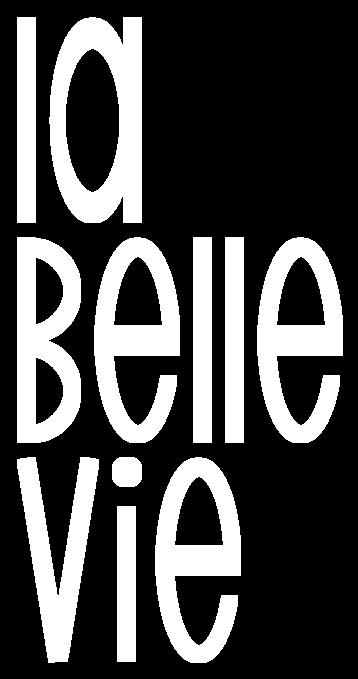
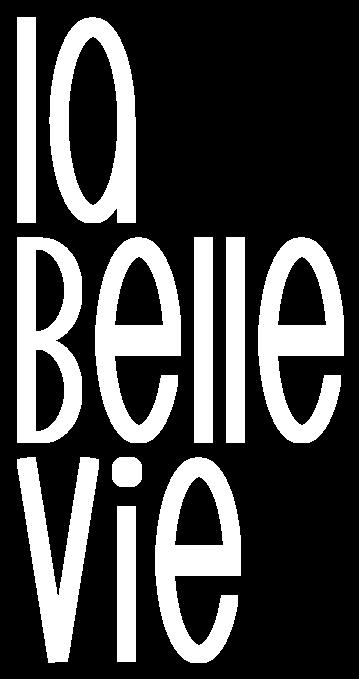
regler les tests

diff --git a/src/tp1/BaseShape.java b/src/tp1/BaseShape.java
@@ -1,17 +1,16 @@
 package tp1;
 
 import java.util.*;
-import java.util.stream.Collectors;
 
 public class BaseShape implements Cloneable {
-    private Collection<Point2d> coords;
+    private final Collection<Point2d> coords;
 
     public BaseShape() {
-        this.coords = new LinkedList<Point2d>();
+        this.coords = new LinkedList<>();
     }
 
     public BaseShape(Collection<Point2d> coords) {
-        this.coords = new ArrayList<Point2d>();
+        this.coords = new ArrayList<>();
         this.addAll(coords);
     }
 
@@ -41,11 +40,15 @@ public class BaseShape implements Cloneable {
     }
 
     public Collection<Point2d> getCoords() {
-        return this.coords;
+        return new ArrayList<>(this.coords);
     }
 
     public Collection<Point2d> getCoordsDeepCopy() {
-        return this.clone().coords;
+        Collection<Point2d> newCoords = new LinkedList<>();
+        for (Point2d elem :this.coords) {
+            newCoords.add(elem.clone());
+        }
+        return newCoords;
     }
 
     public BaseShape translate(Point2d point) {
@@ -57,7 +60,7 @@ public class BaseShape implements Cloneable {
 
     public BaseShape rotate(Double angle) {
         for(Point2d pt2d: this.coords) {
-            PointOperator.rotate(pt2d.vector, angle);
+            pt2d.rotate(angle);
         }
         return this;
     }
@@ -123,6 +126,6 @@ public class BaseShape implements Cloneable {
     }
 
     public BaseShape clone() {
-        return this.clone();
+        return new BaseShape(this.getCoordsDeepCopy());
     }
 }

diff --git a/src/tp1/PointOperator.java b/src/tp1/PointOperator.java
@@ -1,7 +1,5 @@
 package tp1;
 
-import java.util.*;
-
 public final class PointOperator {
 
     public static void translate(Double[] vector, Double[] translateVector) {
@@ -26,20 +24,20 @@ public final class PointOperator {
     }
 
     public static void divide(Double[] vector, Double divider) {
-        for (double vec: vector) {
-            vec /= divider;
+        for (int i = 0; i < vector.length; ++i) {
+            vector[i] /= divider;
         }
     }
 
     public static void multiply(Double[] vector, Double multiplier) {
-        for (double vec: vector) {
-            vec *= multiplier;
+        for (int i = 0; i < vector.length; ++i) {
+            vector[i] *= multiplier;
         }
     }
 
     public static void add(Double[] vector, Double adder) {
-        for (double vec: vector) {
-            vec += adder;
+        for (int i = 0; i < vector.length; ++i) {
+            vector[i] += adder;
         }
     }
 }

diff --git a/src/tp1/LetterFactory.java b/src/tp1/LetterFactory.java
@@ -1,7 +1,5 @@
 package tp1;
 
-import org.w3c.dom.css.Rect;
-
 public final class LetterFactory {
     final static Double maxHeight = 200.0;
     final static Double maxWidth = maxHeight / 2.5;
@@ -46,8 +44,8 @@ public final class LetterFactory {
     }
 
     public static BaseShape create_V() {
-        Rectangle barreDroite = new Rectangle(halfStripeThickness , maxHeight).rotate(angleDuV).translate(new Point2d(-deplacementDuV,0.0));
-        Rectangle barreGauche = new Rectangle(halfStripeThickness , maxHeight).rotate(-angleDuV).translate(new Point2d(deplacementDuV,0.0));
+        Rectangle barreDroite = new Rectangle(halfStripeThickness , maxHeight).rotate(-angleDuV).translate(new Point2d(-deplacementDuV,0.0));
+        Rectangle barreGauche = new Rectangle(halfStripeThickness , maxHeight).rotate(angleDuV).translate(new Point2d(deplacementDuV,0.0));
         barreDroite.add(barreGauche);
         return barreDroite;
     }

diff --git a/src/tp1/AbstractPoint.java b/src/tp1/AbstractPoint.java
@@ -6,9 +6,7 @@ import java.util.stream.Collectors;
 public abstract class AbstractPoint implements Comparable<AbstractPoint> {
     protected Double[] vector;
 
-    public AbstractPoint(Double[] vector) {
-        this.vector = vector;
-    }
+    public AbstractPoint(Double[] vector) { this.vector = vector.clone(); }
 
     public abstract AbstractPoint translate(Double[] translateVector);
     public abstract AbstractPoint rotate(Double[][] rotationMatrix);

diff --git a/src/tp1/Point2d.java b/src/tp1/Point2d.java
@@ -35,7 +35,9 @@ public class Point2d extends AbstractPoint {
     }
 
     public Point2d rotate(Double angle) {
-        PointOperator.rotate(this.vector, angle);
+        Double elemPointX = this.vector[this.X];
+        this.vector[this.X] = this.X() * Math.cos(angle) - this.Y() * Math.sin(angle);
+        this.vector[this.Y] = elemPointX * Math.sin(angle) + this.Y() * Math.cos(angle);
         return this;
     }
 
